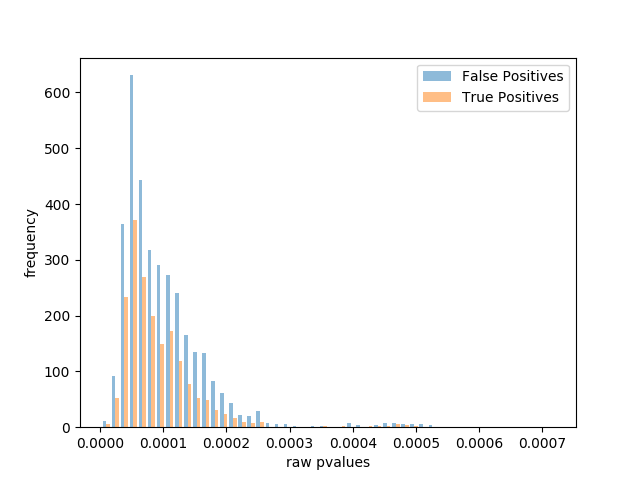
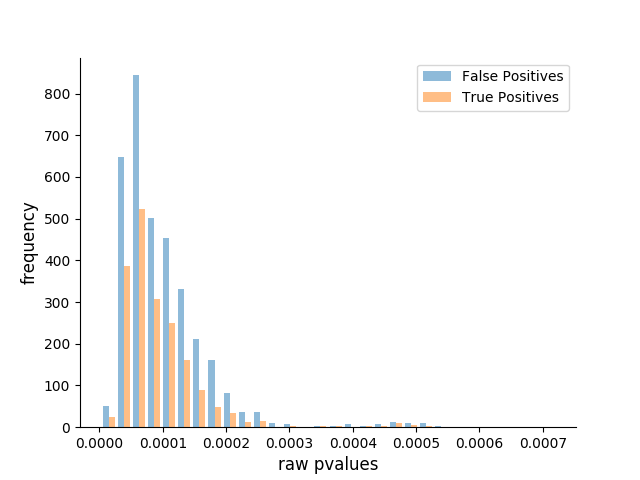
updating colors gor job talk

diff --git a/define_tp_fp.py b/define_tp_fp.py
@@ -154,7 +154,7 @@ pickle.dump(false_pos_rel_pvalue,open('false_pos_rel_pvalue.pkl','wb'))
 
 #### Plot distributions
 fix,ax = plt.subplots()
-ax.hist([true_pos_pvalues,false_pos_pvalues],bins=30,label=['True Positives','False Positives'], alpha=0.5)#,facecolor=['blue','red'])
+ax.hist([false_pos_pvalues,true_pos_pvalues,],bins=30,label=['False Positives','True Positives'], alpha=0.5)#,facecolor=['blue','red'])
 ax.set_ylabel('frequency',fontsize=12)
 ax.set_xlabel('raw pvalues',fontsize=12)
 ax.legend(loc='upper right')
@@ -165,7 +165,7 @@ plt.savefig('raw_pvalues.png',format='png')
 fig,ax = plt.subplots()
 #ax.hist(true_pos_rel_pvalue,label='True Positives',facecolor='blue', alpha=0.5)
 #ax.hist(false_pos_rel_pvalue,label='False Positives',facecolor='blue', alpha=0.5)
-ax.hist([true_pos_rel_pvalue,false_pos_rel_pvalue ],bins=30,label=['True Positives','False Positives'], alpha=0.5)
+ax.hist([false_pos_rel_pvalue,true_pos_rel_pvalue,],bins=30,label=['False Positives','True Positives'], alpha=0.5)
 ax.set_ylabel('frequency',fontsize=12)
 ax.set_xlabel('normalized pvalues',fontsize=12)
 ax.legend(loc='upper right')
